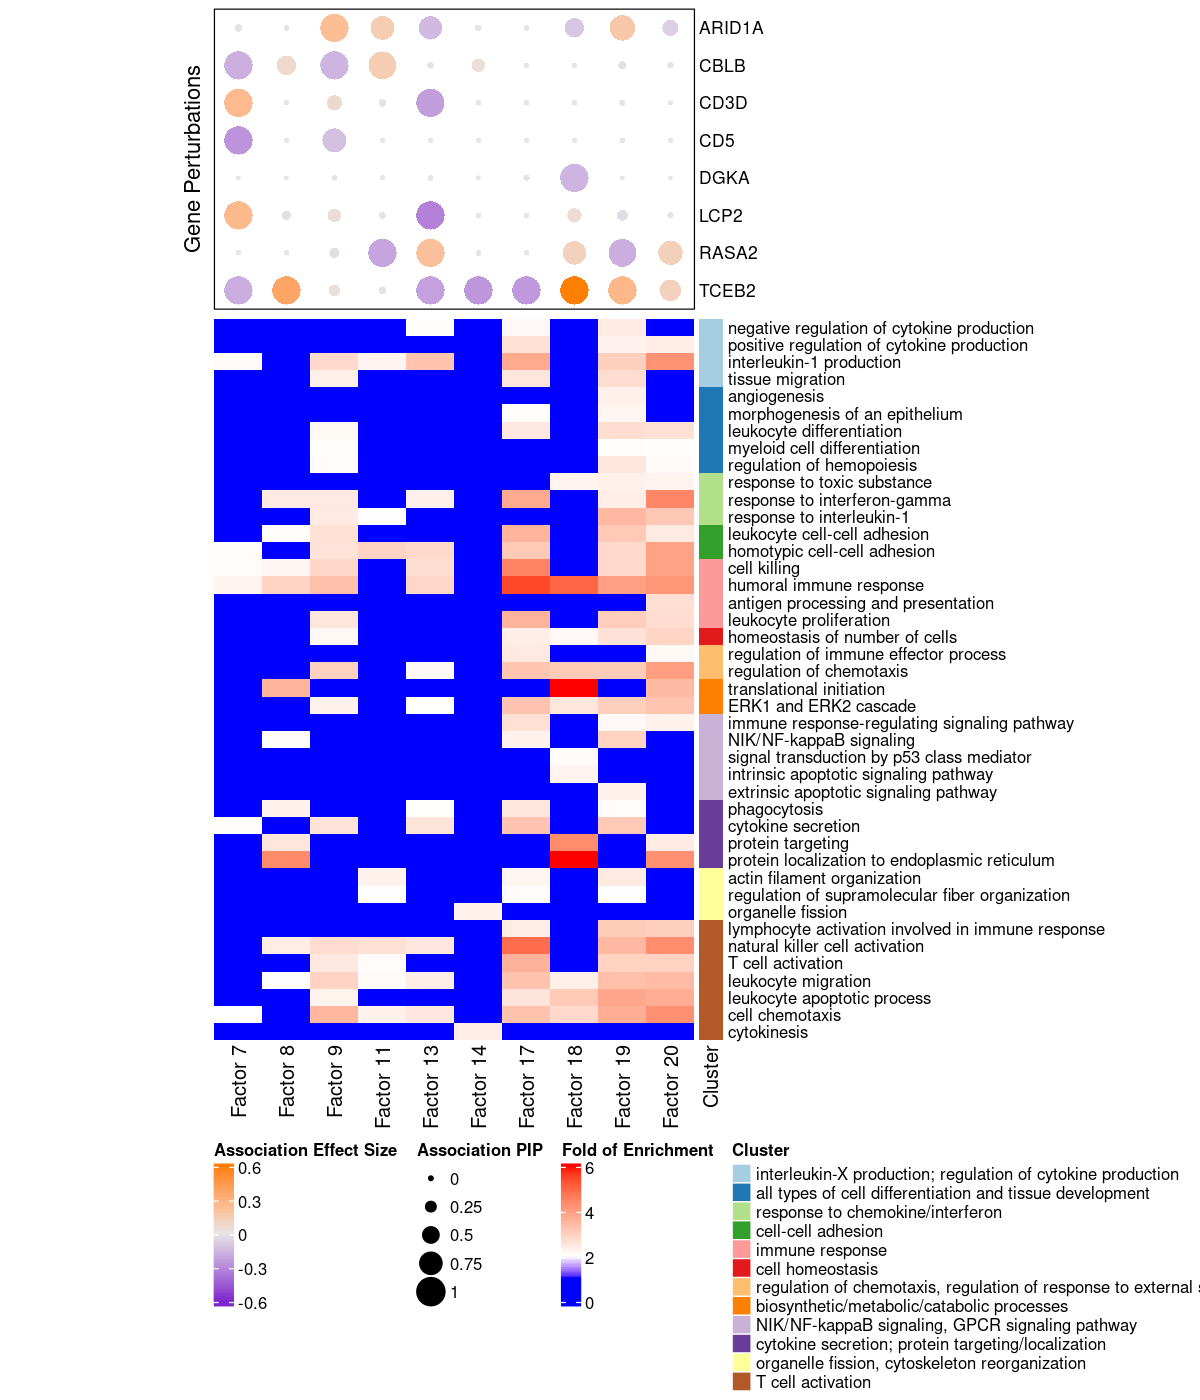
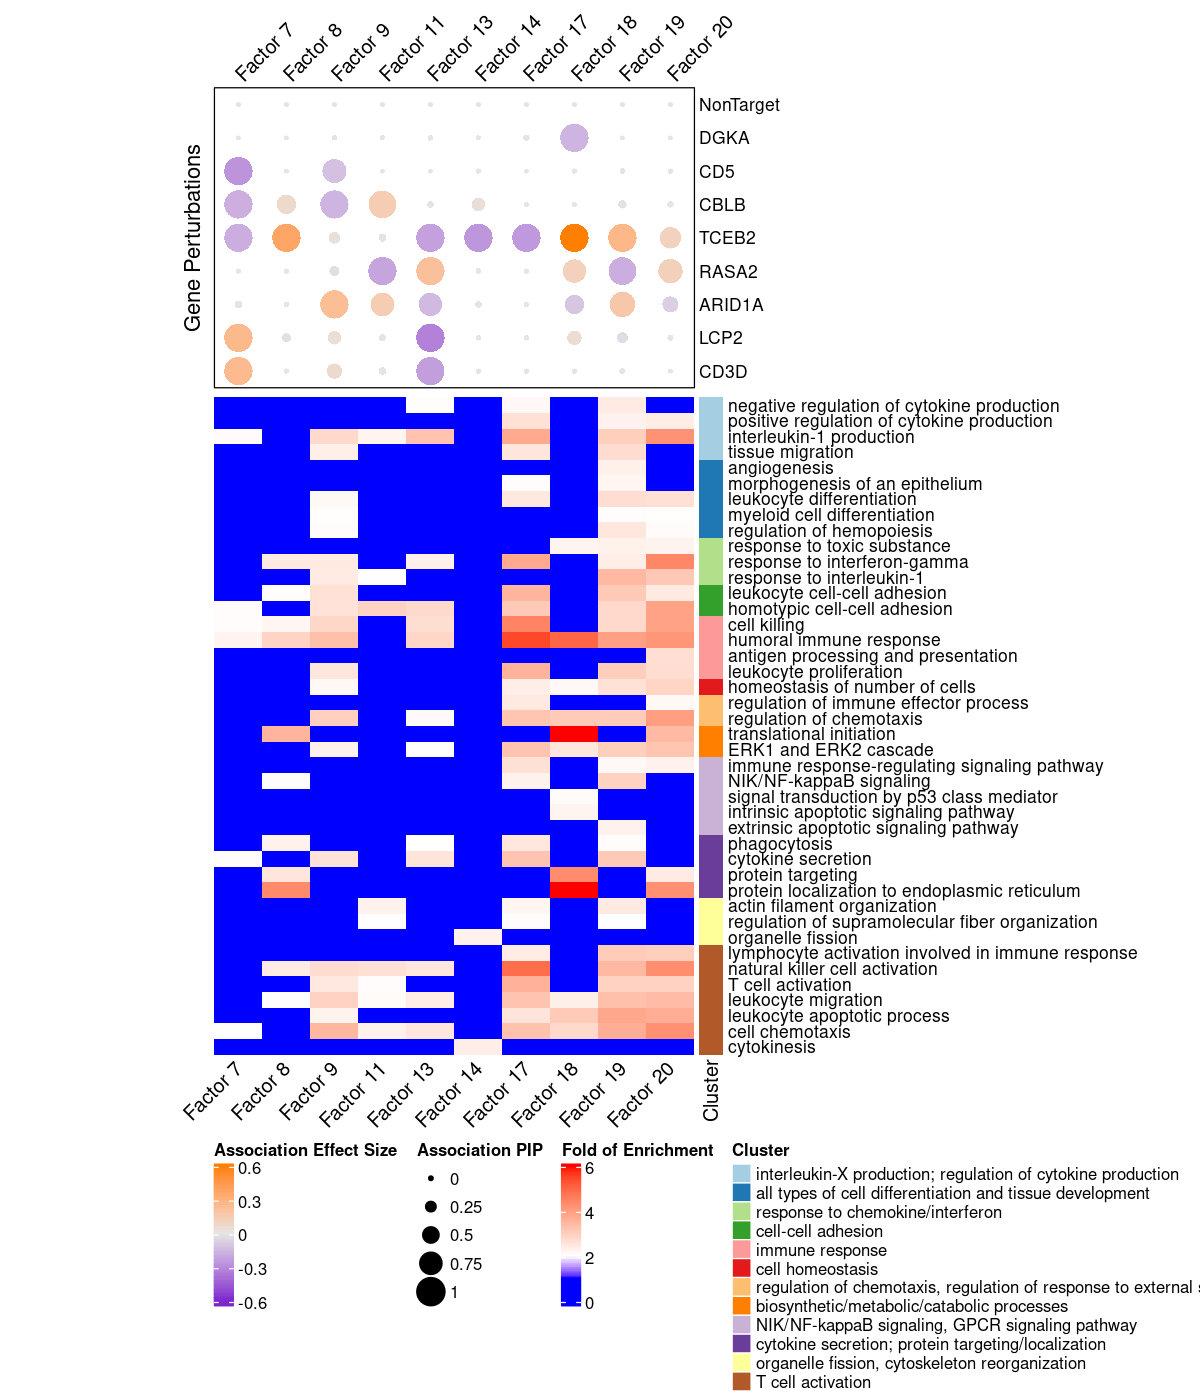
gsea reactome

Changed region(s): [[0.1542, 0.0, 0.9558, 0.7986]]

diff --git a/docs/Stimulated_TCells_merged.enrichment_gsfa_detect_01.html b/docs/Stimulated_TCells_merged.enrichment_gsfa_detect_01.html
@@ -11,7 +11,7 @@
 
 <meta name="author" content="Yifan Zhou (zhouyf@uchicago.edu)" />
 
-<meta name="date" content="2021-04-06" />
+<meta name="date" content="2021-04-12" />
 
 <title>Functional Analysis on Stimulated T Cell CROP-seq GSFA Results</title>
 
@@ -336,7 +336,7 @@ div.tocify {
 <h1 class="title toc-ignore">Functional Analysis on Stimulated T Cell CROP-seq GSFA Results</h1>
 <h3 class="subtitle">-- 2 donors pooled, batch effect and 3 other covariates corrected</h3>
 <h4 class="author">Yifan Zhou (<a href="mailto:zhouyf@uchicago.edu">zhouyf@uchicago.edu</a>)</h4>
-<h4 class="date">2021-04-06</h4>
+<h4 class="date">2021-04-12</h4>
 
 </div>
 
@@ -361,11 +361,13 @@ Seurat &quot;LogNormalize&quot;: log(count per 10K + 1).<br />
 <div id="estimate-of-factor-perturbation-associations-beta" class="section level3">
 <h3><span class="header-section-number">1.2.1</span> Estimate of Factor ~ Perturbation Associations (<span class="math inline">\(\beta\)</span>)</h3>
 <p><img src="Stimulated_TCells_merged.enrichment_gsfa_detect_01_files/figure-html/unnamed-chunk-2-1.png" width="864" style="display: block; margin: auto;" /></p>
+<p>We compared the CDF of GSFA factor-guide association p values (20 <span class="math inline">\(\times\)</span> 21 in total) with the CDF of p values obtained from chi-square tests that assess over/under-representation of guides in cell clusters (presented <a href="All_TCells_clustering.html">here</a>).</p>
+<p><img src="Stimulated_TCells_merged.enrichment_gsfa_detect_01_files/figure-html/plot_pval_comparison-1.png" width="768" style="display: block; margin: auto;" /></p>
 </div>
 <div id="degs-lfsr-0.05-under-each-perturbation" class="section level3">
 <h3><span class="header-section-number">1.2.2</span> DEGs (LFSR &lt; 0.05) under Each Perturbation</h3>
 <p>Number of genes that passed GSFA LFSR &lt; 0.05 under each perturbation:</p>
-<p><img src="Stimulated_TCells_merged.enrichment_gsfa_detect_01_files/figure-html/dge_comparison_log-1.png" width="960" style="display: block; margin: auto;" /></p>
+<p><img src="Stimulated_TCells_merged.enrichment_gsfa_detect_01_files/figure-html/dge_comparison_log-1.png" width="720" style="display: block; margin: auto;" /></p>
 <p>Overlap of GSFA DEGs between perturbations:</p>
 <p><img src="Stimulated_TCells_merged.enrichment_gsfa_detect_01_files/figure-html/unnamed-chunk-3-1.png" width="576" style="display: block; margin: auto;" /></p>
 </div>
@@ -373,61 +375,101 @@ Seurat &quot;LogNormalize&quot;: log(count per 10K + 1).<br />
 </div>
 <div id="gene-set-enrichment-analysis" class="section level1">
 <h1><span class="header-section-number">2</span> Gene Set Enrichment Analysis</h1>
-<div id="enrichment-by-factor" class="section level2">
-<h2><span class="header-section-number">2.1</span> Enrichment by factor</h2>
+<div id="gsea" class="section level2">
+<h2><span class="header-section-number">2.1</span> GSEA</h2>
+<div id="reactome-pathway" class="section level3">
+<h3><span class="header-section-number">2.1.1</span> Reactome Pathway</h3>
+<p><strong>Using the weights on all 6k genes:</strong></p>
+<p>Factor 7: NA<br />
+<a href="http://www.webgestalt.org/results/1617769050/">Factor 8</a><br />
+Up-regulated: rRNA processing;<br />
+Down-regulated: Adaptive Immune System, MHC antigen presentation, Interferon Signaling<br />
+<a href="http://www.webgestalt.org/results/1617768152/">Factor 9</a><br />
+Up-regulated: MHC antigen presentation, Interferon Signaling<br />
+<a href="http://www.webgestalt.org/results/1617767491/">Factor 11</a><br />
+Down-regulated: Platelet activation, signaling and aggregation, PD-1 signaling<br />
+Factor 13: NA<br />
+<a href="http://www.webgestalt.org/results/1617766826/">Factor 14</a><br />
+Up-regulated: RUNX1 regulates genes in differentiation of HSCs (hematopoietic stem cells), Apoptosis;<br />
+Down-regulated: Mitotic Prometaphase, Metaphase and Anaphase<br />
+<a href="http://www.webgestalt.org/results/1617766548/">Factor 17</a><br />
+Up-regulated: MHC class II antigen presentation<br />
+<a href="http://www.webgestalt.org/results/1617766234/">Factor 18</a><br />
+Down-regulated: rRNA processing, Translation<br />
+<a href="http://www.webgestalt.org/results/1617765675/">Factor 19</a><br />
+Up-regulated: Transcriptional regulation by RUNX1<br />
+<a href="http://www.webgestalt.org/results/1617766049/">Factor 20</a><br />
+Down-regulated: MHC class II antigen presentation, Interferon Signaling</p>
+<p><strong>Using only the gene weights of genes w/ PIP &gt; 0.95 in each factor:</strong><br />
+GSEA results are similar to before in general, and on top of that, factor 7 and 13 now have enriched terms as well.</p>
+<p><a href="http://www.webgestalt.org/results/1617870532/#">Factor 7</a><br />
+Down-regulated: Cytokine Signaling in Immune system, MHC class II antigen presentation, Signaling by Interleukins<br />
+<a href="http://www.webgestalt.org/results/1617870635/#">Factor 8</a><br />
+<a href="http://www.webgestalt.org/results/1617872315/#">Factor 9</a><br />
+<a href="http://www.webgestalt.org/results/1617873168/#">Factor 11</a><br />
+<a href="http://www.webgestalt.org/results/1617873305/#">Factor 13</a><br />
+Down-regulated: Cytokine Signaling in Immune system, ER-Phagosome pathway, Interferon Signaling<br />
+<a href="http://www.webgestalt.org/results/1617873376/#">Factor 14</a><br />
+<a href="http://www.webgestalt.org/results/1617876144/#">Factor 17</a><br />
+<a href="http://www.webgestalt.org/results/1617876687/#">Factor 18</a><br />
+<a href="http://www.webgestalt.org/results/1617876735/#">Factor 19</a><br />
+<a href="http://www.webgestalt.org/results/1617876802/#">Factor 20</a></p>
+</div>
+</div>
+<div id="over-representation-analysis" class="section level2">
+<h2><span class="header-section-number">2.2</span> Over-representation Analysis</h2>
 <p>Target genes: Genes w/ non-zero loadings in each factor (PIP cutoff at 0.95);<br />
 Backgroud genes: all 6062 genes included in factor analysis;<br />
 Statistical test: hypergeometric test (over-representation test);<br />
 Gene sets: GO Slim &quot;Biological Process&quot; (non-redundant);<br />
 Only GO gene sets within the size of 10 ~ 500 and have an enrichment FC &gt; 2 and FDR &lt; 0.05 are kept.</p>
 <p>We used the &quot;Wang&quot; method in <code>GOSemSim</code> to measure the similarity between GO BP terms, and all the significant terms in factors of interest were further grouped into 12 clusters using hierarchical clustering with the &quot;ward.D&quot; agglomeration method. The clustering results of all these GO BP terms are stored <a href="https://drive.google.com/drive/folders/1VTXE-bknsCr5mV022HbQqU6NP29qfp_U">here</a>.</p>
-<div id="terms-of-interest" class="section level3">
-<h3><span class="header-section-number">2.1.1</span> Terms of Interest</h3>
-<p><img src="Stimulated_TCells_merged.enrichment_gsfa_detect_01_files/figure-html/gsfa_barplot_selected-1.png" width="960" style="display: block; margin: auto;" /></p>
+<div id="go-bp-terms-of-interest" class="section level3">
+<h3><span class="header-section-number">2.2.1</span> GO BP Terms of Interest</h3>
 <p><img src="figs/Stimulated_TCells_merged.foldchange_heatmap_interest_terms_annotated.png" width="100%" style="display: block; margin: auto;" /></p>
 </div>
-<div id="terms-in-all-factors-of-interest" class="section level3">
-<h3><span class="header-section-number">2.1.2</span> Terms in All Factors of Interest</h3>
+<div id="go-bp-terms-in-all-factors-of-interest" class="section level3">
+<h3><span class="header-section-number">2.2.2</span> GO BP Terms in All Factors of Interest</h3>
 <p><img src="figs/Stimulated_TCells_merged.cirgo_clustered_all_factors.svg" width="100%" style="display: block; margin: auto;" /></p>
 </div>
 <div id="terms-in-factor-7" class="section level3">
-<h3><span class="header-section-number">2.1.3</span> Terms in Factor 7</h3>
+<h3><span class="header-section-number">2.2.3</span> Terms in Factor 7</h3>
 <p><img src="figs/Stimulated_TCells_merged.cirgo_clustered_factor_7.svg" width="100%" style="display: block; margin: auto;" /></p>
 </div>
 <div id="terms-in-factor-8" class="section level3">
-<h3><span class="header-section-number">2.1.4</span> Terms in Factor 8</h3>
+<h3><span class="header-section-number">2.2.4</span> Terms in Factor 8</h3>
 <p><img src="figs/Stimulated_TCells_merged.cirgo_clustered_factor_8.svg" width="100%" style="display: block; margin: auto;" /></p>
 </div>
 <div id="terms-in-factor-9" class="section level3">
-<h3><span class="header-section-number">2.1.5</span> Terms in Factor 9</h3>
+<h3><span class="header-section-number">2.2.5</span> Terms in Factor 9</h3>
 <p><img src="figs/Stimulated_TCells_merged.cirgo_clustered_factor_9.svg" width="100%" style="display: block; margin: auto;" /></p>
 </div>
 <div id="terms-in-factor-11" class="section level3">
-<h3><span class="header-section-number">2.1.6</span> Terms in Factor 11</h3>
+<h3><span class="header-section-number">2.2.6</span> Terms in Factor 11</h3>
 <p><img src="figs/Stimulated_TCells_merged.cirgo_clustered_factor_11.svg" width="100%" style="display: block; margin: auto;" /></p>
 </div>
 <div id="terms-in-factor-13" class="section level3">
-<h3><span class="header-section-number">2.1.7</span> Terms in Factor 13</h3>
+<h3><span class="header-section-number">2.2.7</span> Terms in Factor 13</h3>
 <p><img src="figs/Stimulated_TCells_merged.cirgo_clustered_factor_13.svg" width="100%" style="display: block; margin: auto;" /></p>
 </div>
 <div id="terms-in-factor-14" class="section level3">
-<h3><span class="header-section-number">2.1.8</span> Terms in Factor 14</h3>
+<h3><span class="header-section-number">2.2.8</span> Terms in Factor 14</h3>
 <p><img src="figs/Stimulated_TCells_merged.cirgo_clustered_factor_14.svg" width="100%" style="display: block; margin: auto;" /></p>
 </div>
 <div id="terms-in-factor-17" class="section level3">
-<h3><span class="header-section-number">2.1.9</span> Terms in Factor 17</h3>
+<h3><span class="header-section-number">2.2.9</span> Terms in Factor 17</h3>
 <p><img src="figs/Stimulated_TCells_merged.cirgo_clustered_factor_17.svg" width="100%" style="display: block; margin: auto;" /></p>
 </div>
 <div id="terms-in-factor-18" class="section level3">
-<h3><span class="header-section-number">2.1.10</span> Terms in Factor 18</h3>
+<h3><span class="header-section-number">2.2.10</span> Terms in Factor 18</h3>
 <p><img src="figs/Stimulated_TCells_merged.cirgo_clustered_factor_18.svg" width="100%" style="display: block; margin: auto;" /></p>
 </div>
 <div id="terms-in-factor-19" class="section level3">
-<h3><span class="header-section-number">2.1.11</span> Terms in Factor 19</h3>
+<h3><span class="header-section-number">2.2.11</span> Terms in Factor 19</h3>
 <p><img src="figs/Stimulated_TCells_merged.cirgo_clustered_factor_19.svg" width="100%" style="display: block; margin: auto;" /></p>
 </div>
 <div id="terms-in-factor-20" class="section level3">
-<h3><span class="header-section-number">2.1.12</span> Terms in Factor 20</h3>
+<h3><span class="header-section-number">2.2.12</span> Terms in Factor 20</h3>
 <p><img src="figs/Stimulated_TCells_merged.cirgo_clustered_factor_20.svg" width="100%" style="display: block; margin: auto;" /></p>
 </div>
 </div>
